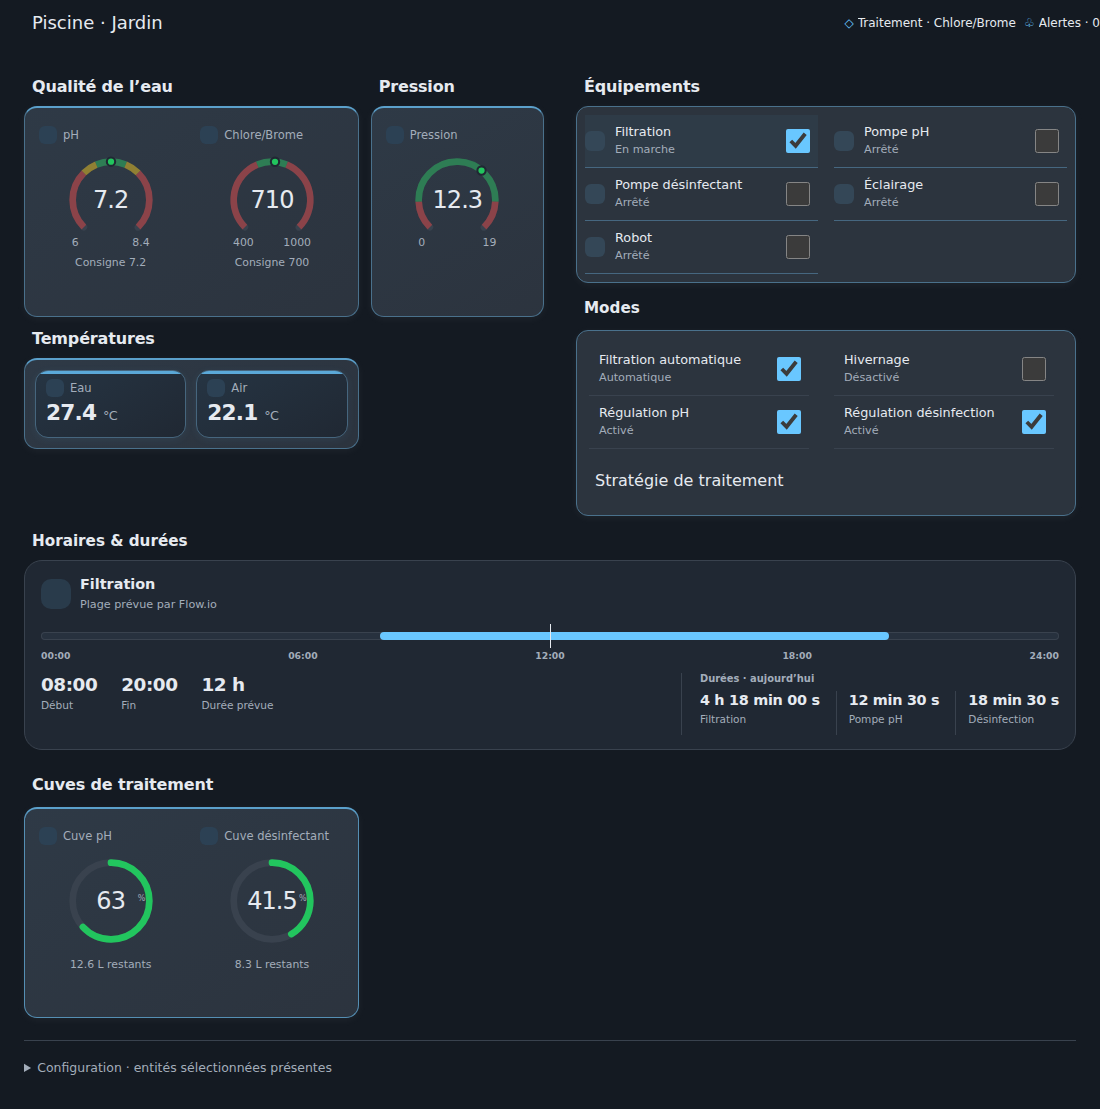
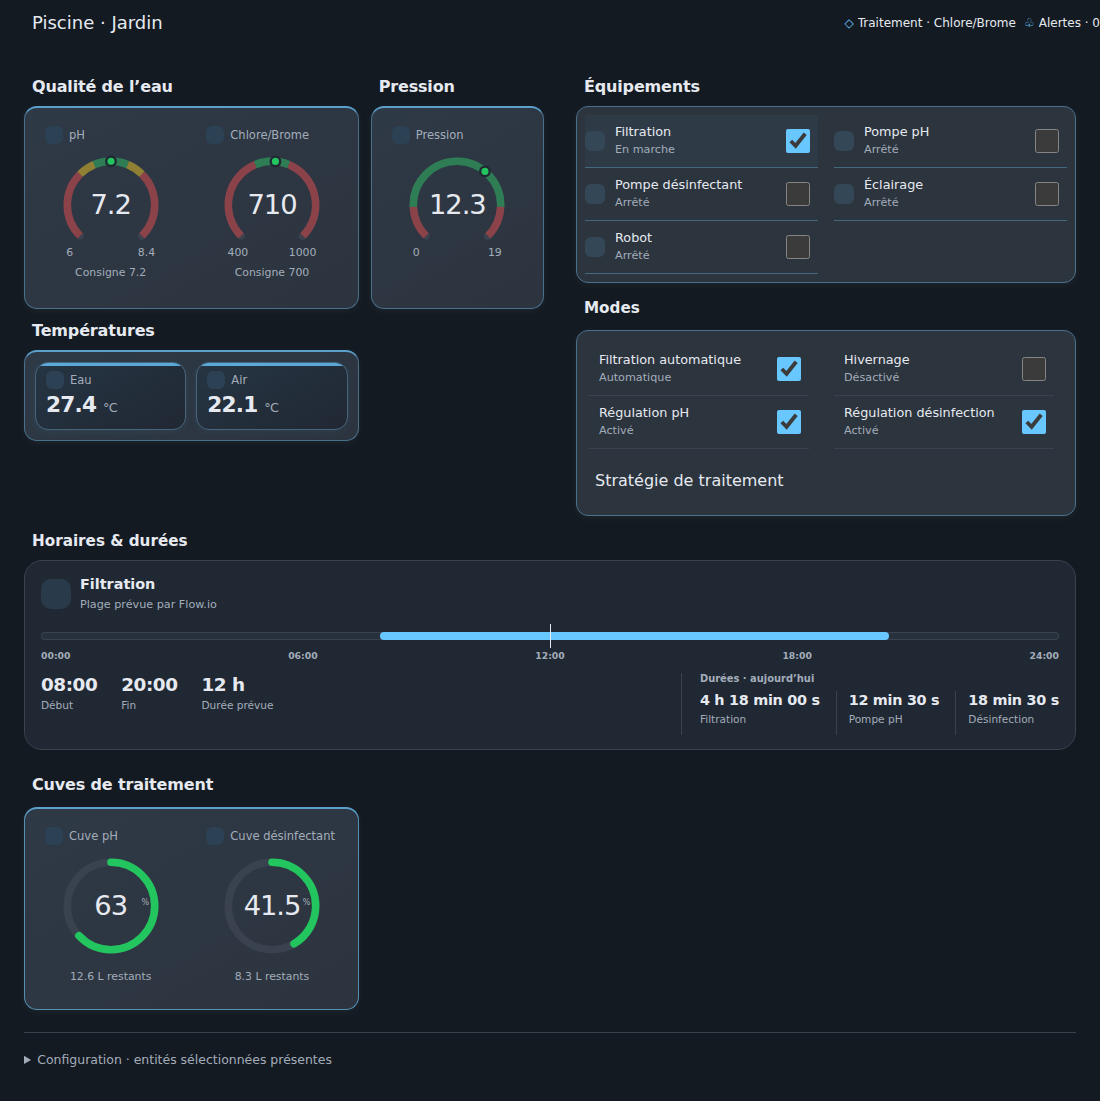
Polish pool gauge and tile sizing

diff --git a/dist/flowio-home-assistant-cards.js b/dist/flowio-home-assistant-cards.js
@@ -7,12 +7,13 @@ var fn=Object.defineProperty;var mn=(n,e)=>()=>(n&&(e=n(n=0)),e);var xn=(n,e)=>{
 .grid[data-group=measurements]{grid-template-columns:repeat(3,minmax(0,1fr))}
 :host>.hero{padding-inline-start:32px}
 .measure{position:relative;min-width:0;min-height:135px;display:flex;flex-direction:column;align-items:stretch;gap:14px;text-align:left;background:var(--fio-surface);background:linear-gradient(145deg,color-mix(in srgb,var(--fio-accent) 13%,var(--fio-surface)),var(--fio-surface));border:1px solid var(--divider-color);border-color:color-mix(in srgb,var(--fio-accent) 25%,var(--divider-color));border-radius:18px;padding:16px;overflow:hidden;overflow-wrap:anywhere}.measure::before{content:'';position:absolute;inset:0 0 auto;height:3px;background:var(--fio-accent);opacity:.8}.metric-head{display:flex;align-items:center;gap:10px;min-width:0}.metric-label{color:var(--secondary-text-color);font-size:.76rem;line-height:1.35}.measure strong{font-size:1.85rem;line-height:1.12;letter-spacing:-.035em;font-weight:650;font-variant-numeric:tabular-nums}.measure small{font-size:.8rem;font-weight:500;color:var(--secondary-text-color)}.metric-foot{display:none;justify-content:space-between;font-size:.65rem;color:var(--secondary-text-color)}.metric-foot ha-icon{--mdc-icon-size:14px}.measure[data-available=false]{--fio-accent:var(--secondary-text-color);background:var(--fio-surface);border-style:dashed}.measure[data-available=false] strong{font-size:.95rem;line-height:1.45;letter-spacing:0}.measure.gauge-tile{gap:8px}.gauge-tile flowio-gauge{flex:1}.equipment-grid,.tank-list{display:grid;grid-template-columns:repeat(auto-fit,minmax(min(100%,260px),1fr));gap:13px}.control{display:flex;align-items:center;gap:12px;min-width:0;padding:14px;background:var(--fio-surface);border:1px solid var(--divider-color);border-radius:17px}.control[data-on=true]{background:color-mix(in srgb,var(--fio-accent) 11%,var(--fio-surface));border-color:var(--fio-accent)}.details{flex:1;min-width:0;display:flex;align-items:center;gap:10px;text-align:left;border:0;background:none;padding:0;overflow-wrap:anywhere;min-height:44px}.control-copy{display:flex;flex-direction:column;gap:6px;min-width:0}.control-label{font-size:.83rem;font-weight:600}.control-state{display:flex;align-items:center;gap:6px;font-size:.7rem;color:var(--secondary-text-color)}.state-dot{width:6px;height:6px;border-radius:50%;background:var(--secondary-text-color)}.control[data-on=true] .state-dot{background:var(--fio-accent)}.switch{position:relative;flex-shrink:0;width:58px;height:32px;border:0;border-radius:999px;background:var(--divider-color);padding:3px;display:inline-flex;align-items:center}.switch .knob{display:inline-flex;align-items:center;justify-content:center;width:26px;height:26px;border-radius:50%;background:var(--card-background-color,var(--fio-surface));color:var(--secondary-text-color);box-shadow:0 1px 3px rgba(0,0,0,.22);transform:translateX(0);transition:transform 180ms ease,background-color 180ms ease,color 180ms ease}.switch .knob ha-icon{--mdc-icon-size:17px}.switch.on{background:var(--fio-accent,var(--primary-color))}.switch.on .knob{transform:translateX(26px);color:var(--fio-accent,var(--primary-color))}.switch:disabled{opacity:.45}.control[data-available=false] .icon-plate{--fio-accent:var(--secondary-text-color)}.tank{min-width:0;padding:18px;border:1px solid var(--divider-color);border-color:color-mix(in srgb,var(--fio-accent) 30%,var(--divider-color));border-radius:19px;background:var(--fio-surface);background:linear-gradient(155deg,color-mix(in srgb,var(--fio-accent) 11%,var(--fio-surface)),var(--fio-surface))}.tank-heading{display:flex;align-items:center;gap:11px;margin-bottom:15px}.tank h4{margin:0 0 4px;font-size:.9rem}.tank-heading p{margin:0;font-size:.66rem;color:var(--secondary-text-color)}.tank .grid{gap:9px;grid-template-columns:repeat(auto-fit,minmax(min(100%,115px),1fr))}.tank .measure{padding:12px;border-radius:12px;background:var(--fio-surface)}.tank .metric-head .icon-plate,.tank .metric-foot,.tank .measure::before{display:none}.tank .measure strong{font-size:1.45rem}.tank .metric-label{font-size:.67rem}.tank flowio-gauge{max-width:150px}
-.fio-card{--fio-tile-size:min(160px,calc((100cqi - 192px)/6));--fio-gauge-size:min(100px,calc(var(--fio-tile-size) - 22px))}
+.fio-card{--fio-tile-size:min(160px,calc((100cqi - 192px)/6));--fio-gauge-size:min(114px,calc(var(--fio-tile-size) - 22px))}
 .fio-card .measure{box-sizing:border-box;width:var(--fio-tile-size);max-width:100%;min-height:104px;padding:10px;gap:8px;border-radius:14px}
-.fio-card .measure.gauge-tile{min-height:188px;gap:6px}
+.fio-card .measure.gauge-tile{min-height:180px;gap:4px}
 .fio-card .gauge-tile flowio-gauge{flex:none;width:var(--fio-gauge-size);max-width:100%;margin:0 auto}
+.fio-card .tank flowio-gauge{flex:none;width:var(--fio-gauge-size);max-width:100%;margin:0 auto}
 .fio-card .metric-head{gap:6px;min-height:24px}.fio-card .metric-head .icon-plate{width:24px;height:24px;border-radius:8px}.fio-card .metric-head ha-icon{--mdc-icon-size:17px}.fio-card .metric-label{font-size:.72rem;line-height:1.25}
-.fio-card .measure.gauge-tile .metric-head{min-height:18px}.fio-card .measure.gauge-tile .metric-head .icon-plate{width:18px;height:18px;border-radius:6px}.fio-card .measure.gauge-tile .metric-head ha-icon{--mdc-icon-size:15px}
+.fio-card .measure.gauge-tile .metric-head{min-height:18px;margin-inline-start:6px}.fio-card .measure.gauge-tile .metric-head .icon-plate{width:18px;height:18px;border-radius:6px}.fio-card .measure.gauge-tile .metric-head ha-icon{--mdc-icon-size:15px}
 .fio-card .measurement-group{box-sizing:border-box;width:fit-content;max-width:100%;padding:10px}.fio-card .measurement-group h4{margin:0 0 8px}.fio-card .measurement-group .grid{grid-template-columns:repeat(2,minmax(0,var(--fio-tile-size)));gap:10px;justify-content:start}.fio-card [data-measurement-group=pressure] .grid{grid-template-columns:minmax(0,var(--fio-tile-size))}
 .fio-card .measure.gauge-tile{padding:8px 4px;border:0;border-radius:0;background:transparent;box-shadow:none;overflow:visible}
 .fio-card .measure.gauge-tile::before{display:none}.fio-card .measure.gauge-tile:hover{transform:none;box-shadow:none}

diff --git a/src/card-styles.ts b/src/card-styles.ts
@@ -7,12 +7,13 @@ export const poolStyles=css`
 .grid[data-group=measurements]{grid-template-columns:repeat(3,minmax(0,1fr))}
 :host>.hero{padding-inline-start:32px}
 .measure{position:relative;min-width:0;min-height:135px;display:flex;flex-direction:column;align-items:stretch;gap:14px;text-align:left;background:var(--fio-surface);background:linear-gradient(145deg,color-mix(in srgb,var(--fio-accent) 13%,var(--fio-surface)),var(--fio-surface));border:1px solid var(--divider-color);border-color:color-mix(in srgb,var(--fio-accent) 25%,var(--divider-color));border-radius:18px;padding:16px;overflow:hidden;overflow-wrap:anywhere}.measure::before{content:'';position:absolute;inset:0 0 auto;height:3px;background:var(--fio-accent);opacity:.8}.metric-head{display:flex;align-items:center;gap:10px;min-width:0}.metric-label{color:var(--secondary-text-color);font-size:.76rem;line-height:1.35}.measure strong{font-size:1.85rem;line-height:1.12;letter-spacing:-.035em;font-weight:650;font-variant-numeric:tabular-nums}.measure small{font-size:.8rem;font-weight:500;color:var(--secondary-text-color)}.metric-foot{display:none;justify-content:space-between;font-size:.65rem;color:var(--secondary-text-color)}.metric-foot ha-icon{--mdc-icon-size:14px}.measure[data-available=false]{--fio-accent:var(--secondary-text-color);background:var(--fio-surface);border-style:dashed}.measure[data-available=false] strong{font-size:.95rem;line-height:1.45;letter-spacing:0}.measure.gauge-tile{gap:8px}.gauge-tile flowio-gauge{flex:1}.equipment-grid,.tank-list{display:grid;grid-template-columns:repeat(auto-fit,minmax(min(100%,260px),1fr));gap:13px}.control{display:flex;align-items:center;gap:12px;min-width:0;padding:14px;background:var(--fio-surface);border:1px solid var(--divider-color);border-radius:17px}.control[data-on=true]{background:color-mix(in srgb,var(--fio-accent) 11%,var(--fio-surface));border-color:var(--fio-accent)}.details{flex:1;min-width:0;display:flex;align-items:center;gap:10px;text-align:left;border:0;background:none;padding:0;overflow-wrap:anywhere;min-height:44px}.control-copy{display:flex;flex-direction:column;gap:6px;min-width:0}.control-label{font-size:.83rem;font-weight:600}.control-state{display:flex;align-items:center;gap:6px;font-size:.7rem;color:var(--secondary-text-color)}.state-dot{width:6px;height:6px;border-radius:50%;background:var(--secondary-text-color)}.control[data-on=true] .state-dot{background:var(--fio-accent)}.switch{position:relative;flex-shrink:0;width:58px;height:32px;border:0;border-radius:999px;background:var(--divider-color);padding:3px;display:inline-flex;align-items:center}.switch .knob{display:inline-flex;align-items:center;justify-content:center;width:26px;height:26px;border-radius:50%;background:var(--card-background-color,var(--fio-surface));color:var(--secondary-text-color);box-shadow:0 1px 3px rgba(0,0,0,.22);transform:translateX(0);transition:transform 180ms ease,background-color 180ms ease,color 180ms ease}.switch .knob ha-icon{--mdc-icon-size:17px}.switch.on{background:var(--fio-accent,var(--primary-color))}.switch.on .knob{transform:translateX(26px);color:var(--fio-accent,var(--primary-color))}.switch:disabled{opacity:.45}.control[data-available=false] .icon-plate{--fio-accent:var(--secondary-text-color)}.tank{min-width:0;padding:18px;border:1px solid var(--divider-color);border-color:color-mix(in srgb,var(--fio-accent) 30%,var(--divider-color));border-radius:19px;background:var(--fio-surface);background:linear-gradient(155deg,color-mix(in srgb,var(--fio-accent) 11%,var(--fio-surface)),var(--fio-surface))}.tank-heading{display:flex;align-items:center;gap:11px;margin-bottom:15px}.tank h4{margin:0 0 4px;font-size:.9rem}.tank-heading p{margin:0;font-size:.66rem;color:var(--secondary-text-color)}.tank .grid{gap:9px;grid-template-columns:repeat(auto-fit,minmax(min(100%,115px),1fr))}.tank .measure{padding:12px;border-radius:12px;background:var(--fio-surface)}.tank .metric-head .icon-plate,.tank .metric-foot,.tank .measure::before{display:none}.tank .measure strong{font-size:1.45rem}.tank .metric-label{font-size:.67rem}.tank flowio-gauge{max-width:150px}
-.fio-card{--fio-tile-size:min(160px,calc((100cqi - 192px)/6));--fio-gauge-size:min(100px,calc(var(--fio-tile-size) - 22px))}
+.fio-card{--fio-tile-size:min(160px,calc((100cqi - 192px)/6));--fio-gauge-size:min(114px,calc(var(--fio-tile-size) - 22px))}
 .fio-card .measure{box-sizing:border-box;width:var(--fio-tile-size);max-width:100%;min-height:104px;padding:10px;gap:8px;border-radius:14px}
-.fio-card .measure.gauge-tile{min-height:188px;gap:6px}
+.fio-card .measure.gauge-tile{min-height:180px;gap:4px}
 .fio-card .gauge-tile flowio-gauge{flex:none;width:var(--fio-gauge-size);max-width:100%;margin:0 auto}
+.fio-card .tank flowio-gauge{flex:none;width:var(--fio-gauge-size);max-width:100%;margin:0 auto}
 .fio-card .metric-head{gap:6px;min-height:24px}.fio-card .metric-head .icon-plate{width:24px;height:24px;border-radius:8px}.fio-card .metric-head ha-icon{--mdc-icon-size:17px}.fio-card .metric-label{font-size:.72rem;line-height:1.25}
-.fio-card .measure.gauge-tile .metric-head{min-height:18px}.fio-card .measure.gauge-tile .metric-head .icon-plate{width:18px;height:18px;border-radius:6px}.fio-card .measure.gauge-tile .metric-head ha-icon{--mdc-icon-size:15px}
+.fio-card .measure.gauge-tile .metric-head{min-height:18px;margin-inline-start:6px}.fio-card .measure.gauge-tile .metric-head .icon-plate{width:18px;height:18px;border-radius:6px}.fio-card .measure.gauge-tile .metric-head ha-icon{--mdc-icon-size:15px}
 .fio-card .measurement-group{box-sizing:border-box;width:fit-content;max-width:100%;padding:10px}.fio-card .measurement-group h4{margin:0 0 8px}.fio-card .measurement-group .grid{grid-template-columns:repeat(2,minmax(0,var(--fio-tile-size)));gap:10px;justify-content:start}.fio-card [data-measurement-group=pressure] .grid{grid-template-columns:minmax(0,var(--fio-tile-size))}
 .fio-card .measure.gauge-tile{padding:8px 4px;border:0;border-radius:0;background:transparent;box-shadow:none;overflow:visible}
 .fio-card .measure.gauge-tile::before{display:none}.fio-card .measure.gauge-tile:hover{transform:none;box-shadow:none}

diff --git a/e2e/visual.spec.ts b/e2e/visual.spec.ts
@@ -1,6 +1,6 @@
 import{test,expect}from'@playwright/test';
 import{preview}from'./preview';
-test('jauges sans cadre, avec encadrés par section et consignes choisies',async({page})=>{await preview(page);await expect(page.locator('[data-role=ph] flowio-gauge')).toHaveJSProperty('variant','arc');await expect(page.locator('[data-role=pressure] .marker')).toHaveCount(1);await expect(page.locator('[data-role=ph] .target-label')).toContainText('7.2');const quality=page.locator('.measurement-section[data-section=quality] .measurement-group'),gauge=page.locator('[data-role=ph]');await expect(quality).toHaveCSS('border-top-width','2px');await expect(quality).toHaveCSS('border-radius','13px');await expect(quality).not.toHaveCSS('box-shadow','none');await expect(page.locator('.measurement-section[data-section=pressure] .measurement-group')).toHaveCSS('border-top-width','2px');await expect(gauge).toHaveCSS('border-top-width','0px');await expect(gauge).toHaveCSS('box-shadow','none');expect(await gauge.evaluate(el=>getComputedStyle(el).backgroundColor)).toBe('rgba(0, 0, 0, 0)');expect(await gauge.evaluate(el=>getComputedStyle(el,'::before').display)).toBe('none');await expect(page.locator('.grid[data-group=tanks]')).toHaveCSS('border-top-width','2px');await expect(page.locator('.grid[data-group=tanks]')).toHaveCSS('border-radius','13px');await expect(page.locator('[data-role=ph_tank_percent]')).toHaveCSS('box-shadow','none');await expect(page.locator('[data-role=water_temperature]')).not.toHaveCSS('border-top-width','0px');await page.evaluate(()=>{const d=(window as any).demo;d.config.display.setpoints=[];d.apply();});await expect(page.locator('[data-role=ph] .target-label')).toHaveCount(0);});
+test('jauges sans cadre, avec encadrés par section et consignes choisies',async({page})=>{await preview(page);await expect(page.locator('[data-role=ph] flowio-gauge')).toHaveJSProperty('variant','arc');await expect(page.locator('[data-role=pressure] .marker')).toHaveCount(1);await expect(page.locator('[data-role=ph] .target-label')).toContainText('7.2');const quality=page.locator('.measurement-section[data-section=quality] .measurement-group'),gauge=page.locator('[data-role=ph]');await expect(quality).toHaveCSS('border-top-width','2px');await expect(quality).toHaveCSS('border-radius','13px');await expect(quality).not.toHaveCSS('box-shadow','none');await expect(page.locator('.measurement-section[data-section=pressure] .measurement-group')).toHaveCSS('border-top-width','2px');await expect(gauge).toHaveCSS('border-top-width','0px');await expect(gauge).toHaveCSS('box-shadow','none');expect(await gauge.evaluate(el=>getComputedStyle(el).backgroundColor)).toBe('rgba(0, 0, 0, 0)');expect(await gauge.evaluate(el=>getComputedStyle(el,'::before').display)).toBe('none');const gaugeHead=gauge.locator('.icon-plate'),temperatureHead=page.locator('[data-role=water_temperature] .icon-plate'),tempGroup=page.locator('[data-measurement-group=temperature]');const gaugeOffset=(await gaugeHead.boundingBox())!.x-(await quality.boundingBox())!.x,tempOffset=(await temperatureHead.boundingBox())!.x-(await tempGroup.boundingBox())!.x;expect(Math.abs(gaugeOffset-tempOffset)).toBeLessThanOrEqual(1);expect((await gauge.locator('flowio-gauge').boundingBox())!.width).toBeGreaterThan(100);await expect(page.locator('.grid[data-group=tanks]')).toHaveCSS('border-top-width','2px');await expect(page.locator('.grid[data-group=tanks]')).toHaveCSS('border-radius','13px');await expect(page.locator('[data-role=ph_tank_percent]')).toHaveCSS('box-shadow','none');await expect(page.locator('[data-role=water_temperature]')).not.toHaveCSS('border-top-width','0px');await page.evaluate(()=>{const d=(window as any).demo;d.config.display.setpoints=[];d.apply();});await expect(page.locator('[data-role=ph] .target-label')).toHaveCount(0);});
 test('horaires prévus et compteurs distincts sans commande',async({page})=>{await preview(page);await expect(page.locator('[data-timing=filtration_schedule]')).toContainText('08:00');await expect(page.locator('[data-timing=filtration_schedule]')).toContainText('20:00');await expect(page.locator('[data-timing=ph_runtime]')).toContainText('12 min 30 s');await expect(page.locator('[data-timing=disinfection_runtime]')).toContainText('18 min 30 s');expect(await page.evaluate(()=>(window as any).demo.calls.length)).toBe(0);await page.evaluate(()=>{const d=(window as any).demo;delete d.hass.states['sensor.fio_data_145'];d.apply();});await expect(page.locator('[data-timing=ph_runtime]')).toContainText('Entité absente');});
 test('hors-échelle explicite et mouvement réduit',async({page})=>{await page.emulateMedia({reducedMotion:'reduce'});await preview(page);await page.evaluate(()=>{const d=(window as any).demo;d.hass.states['sensor.fio_io_psi'].state='25';d.apply();});await expect(page.locator('[data-role=pressure] flowio-gauge .outside')).toHaveText('Hors échelle');await expect(page.locator('[data-role=pressure] .reading')).toContainText('25');expect(await page.locator('[data-role=ph] .marker').evaluate(el=>getComputedStyle(el).transitionDuration)).toBe('0s');});
 test('accents issus du thème',async({page})=>{await preview(page);await page.evaluate(()=>document.documentElement.style.setProperty('--flowio-ph-color','#9b59d0'));expect(await page.locator('[data-role=ph] .icon-plate').evaluate(el=>getComputedStyle(el).color)).toBe('rgb(155, 89, 208)');});

diff --git a/e2e/compact-gauges.spec.ts b/e2e/compact-gauges.spec.ts
@@ -1,2 +1,2 @@
 import{test,expect}from'@playwright/test';
-for(const width of [390,820,1600])test(`jauges compactes de dimensions uniformes à ${width}px`,async({page})=>{await page.setViewportSize({width,height:1400});await page.goto('/demo/');await expect(page.locator('flowio-pool-card h2')).toBeVisible();await page.evaluate(()=>{const d=(window as any).demo;d.config.display.measurements=['ph','orp','water_temperature','air_temperature','pressure'];d.config.visuals={ph:{type:'arc',min:6,max:8.4},orp:{type:'arc',min:400,max:1000},pressure:{type:'arc',min:0,max:19}};if(window.innerWidth>1200)document.querySelector('main')!.style.maxWidth='none';d.apply();});const roles=['ph','orp','pressure','ph_tank_percent','disinfection_tank_percent'],card=page.locator('flowio-pool-card');for(const role of roles)await expect(card.locator(`[data-role=${role}] flowio-gauge .dial`)).toBeVisible();const sizes=await Promise.all(roles.map(async role=>{const tile=card.locator(`[data-role=${role}]`),dial=tile.locator('flowio-gauge .dial');return{tile:(await tile.boundingBox())!,dial:(await dial.boundingBox())!};}));for(const dimension of ['width','height']as const){const tileSizes=sizes.map(s=>s.tile[dimension]),dialSizes=sizes.map(s=>s.dial[dimension]);expect(Math.max(...tileSizes)-Math.min(...tileSizes)).toBeLessThanOrEqual(1);expect(Math.max(...dialSizes)-Math.min(...dialSizes)).toBeLessThanOrEqual(1);}for(const size of sizes){expect(size.dial.width).toBeLessThanOrEqual(101);expect(size.tile.width).toBeLessThanOrEqual(161);expect(size.tile.x).toBeGreaterThanOrEqual(0);expect(size.tile.x+size.tile.width).toBeLessThanOrEqual(width+1);}await expect(card.locator('[data-role=ph] .target-label')).toContainText('Consigne 7.2');await expect(card.locator('[data-role=orp] .target-label')).toContainText('Consigne 700');await expect(card.locator('[data-role=ph_tank_percent] .caption')).toHaveText('12.6 L restants');await expect(card.locator('[data-role=disinfection_tank_percent] .caption')).toHaveText('8.3 L restants');expect(await card.locator('.body').evaluate(el=>el.scrollWidth>el.clientWidth)).toBe(false);await card.locator('[data-role=pressure]').click();await expect(page.locator('#events')).toContainText('sensor.fio_io_psi');});
+for(const width of [390,820,1600])test(`jauges compactes de dimensions uniformes à ${width}px`,async({page})=>{await page.setViewportSize({width,height:1400});await page.goto('/demo/');await expect(page.locator('flowio-pool-card h2')).toBeVisible();await page.evaluate(()=>{const d=(window as any).demo;d.config.display.measurements=['ph','orp','water_temperature','air_temperature','pressure'];d.config.visuals={ph:{type:'arc',min:6,max:8.4},orp:{type:'arc',min:400,max:1000},pressure:{type:'arc',min:0,max:19}};if(window.innerWidth>1200)document.querySelector('main')!.style.maxWidth='none';d.apply();});const roles=['ph','orp','pressure','ph_tank_percent','disinfection_tank_percent'],card=page.locator('flowio-pool-card');for(const role of roles)await expect(card.locator(`[data-role=${role}] flowio-gauge .dial`)).toBeVisible();const sizes=await Promise.all(roles.map(async role=>{const tile=card.locator(`[data-role=${role}]`),dial=tile.locator('flowio-gauge .dial');return{tile:(await tile.boundingBox())!,dial:(await dial.boundingBox())!};}));for(const dimension of ['width','height']as const){const tileSizes=sizes.map(s=>s.tile[dimension]),dialSizes=sizes.map(s=>s.dial[dimension]);expect(Math.max(...tileSizes)-Math.min(...tileSizes)).toBeLessThanOrEqual(1);expect(Math.max(...dialSizes)-Math.min(...dialSizes),`${dimension}: ${dialSizes.join(', ')}`).toBeLessThanOrEqual(1);}for(const size of sizes){expect(size.dial.width).toBeLessThanOrEqual(115);expect(size.tile.width).toBeLessThanOrEqual(161);expect(size.tile.x).toBeGreaterThanOrEqual(0);expect(size.tile.x+size.tile.width).toBeLessThanOrEqual(width+1);}await expect(card.locator('[data-role=ph] .target-label')).toContainText('Consigne 7.2');await expect(card.locator('[data-role=orp] .target-label')).toContainText('Consigne 700');await expect(card.locator('[data-role=ph_tank_percent] .caption')).toHaveText('12.6 L restants');await expect(card.locator('[data-role=disinfection_tank_percent] .caption')).toHaveText('8.3 L restants');expect(await card.locator('.body').evaluate(el=>el.scrollWidth>el.clientWidth)).toBe(false);await card.locator('[data-role=pressure]').click();await expect(page.locator('#events')).toContainText('sensor.fio_io_psi');});
